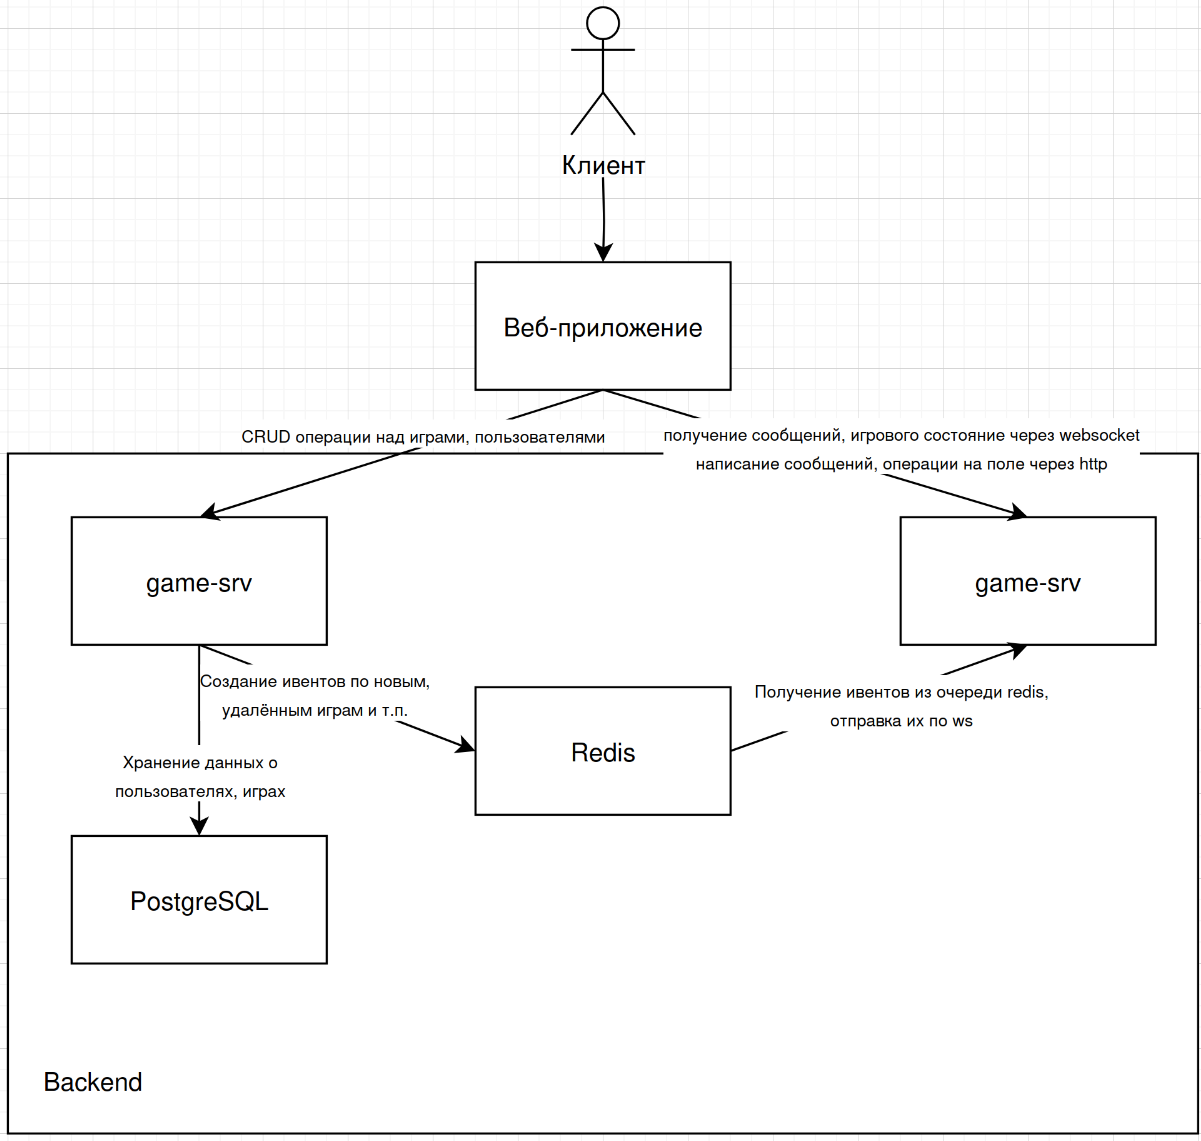
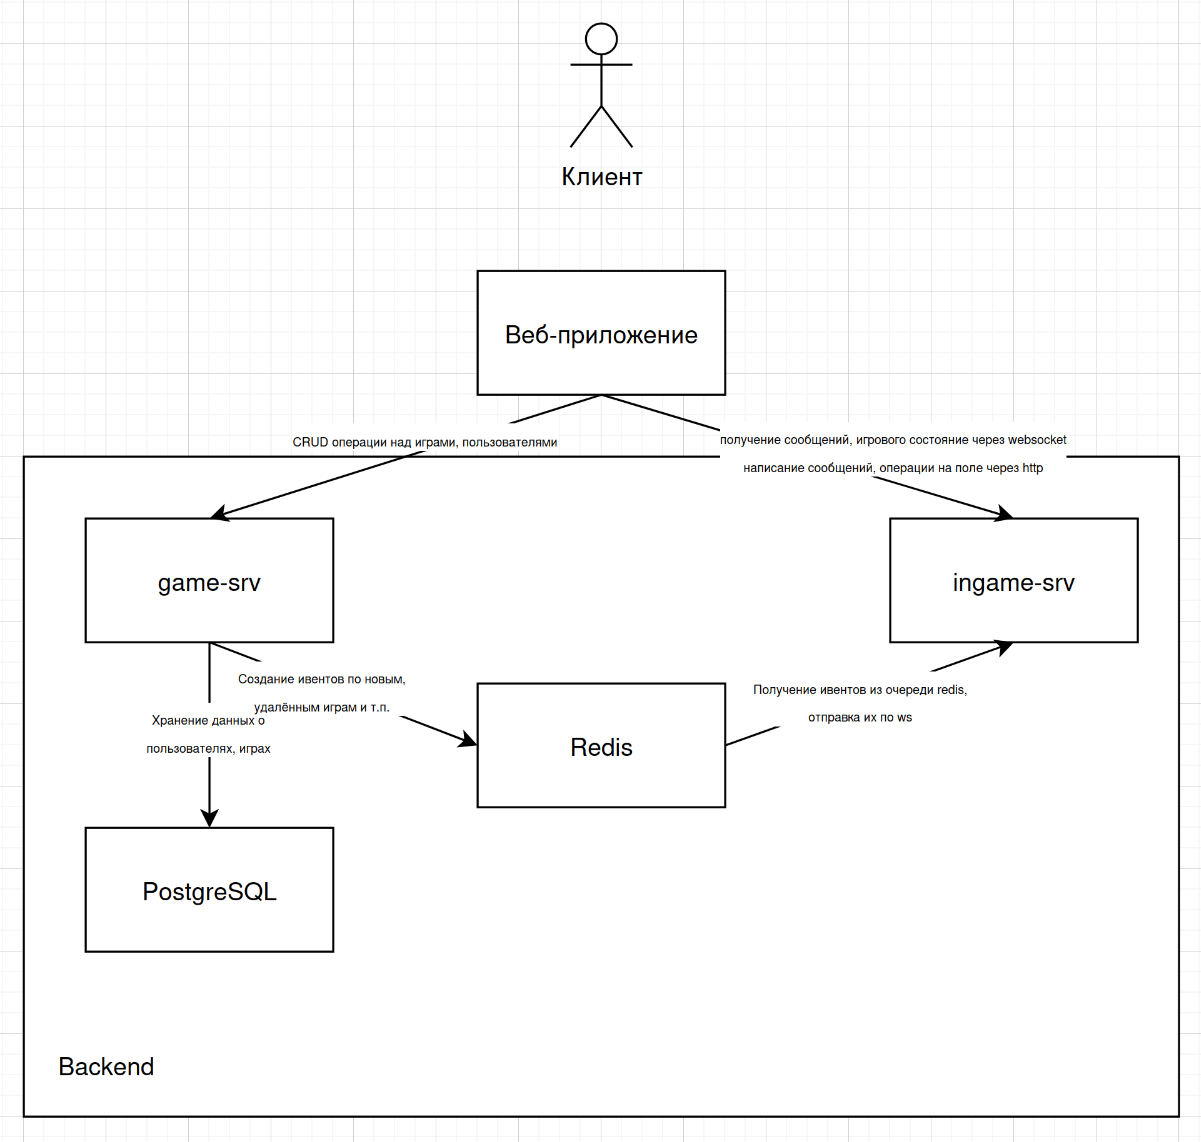
fix diagram & auth event

diff --git a/service/ingame-srv/internal/ws/server/handler.go b/service/ingame-srv/internal/ws/server/handler.go
@@ -57,6 +57,8 @@ func (s *Server) Handle(conn *websocket.Conn) {
 	client := &Client{ctx: ctx, conn: conn, user: user, requestID: requestID, room: id}
 
 	s.usersMu.Lock()
+	s.users[user.ID] = append(s.users[user.ID], client)
+	s.usersMu.Unlock()
 	err = s.write(conn, dto_ws.OK("Authenticated successfully", dto_ws.AuthEventType).Serialize())
 	if err != nil {
 		log.Error("failed to send message", prettylogger.Err(err))
@@ -67,8 +69,6 @@ func (s *Server) Handle(conn *websocket.Conn) {
 		s.usersMu.Unlock()
 		return
 	}
-	s.users[user.ID] = append(s.users[user.ID], client)
-	s.usersMu.Unlock()
 
 	go s.readLoop(client)
 	s.pingLoop(client)

diff --git a/service/ingame-srv/internal/ws/dto/response.go b/service/ingame-srv/internal/ws/dto/response.go
@@ -6,7 +6,8 @@ import (
 )
 
 var (
-	ErrPlayerNotInGame = Error(errors.New("Игрок не подключен к игре"), AuthEventType)
+	ErrPlayerNotInGame = Error(errors.New("Player not in game"), AuthEventType)
+	PlayerJoin         = OK("Successfully join the game", AuthEventType)
 )
 
 type EventType string
